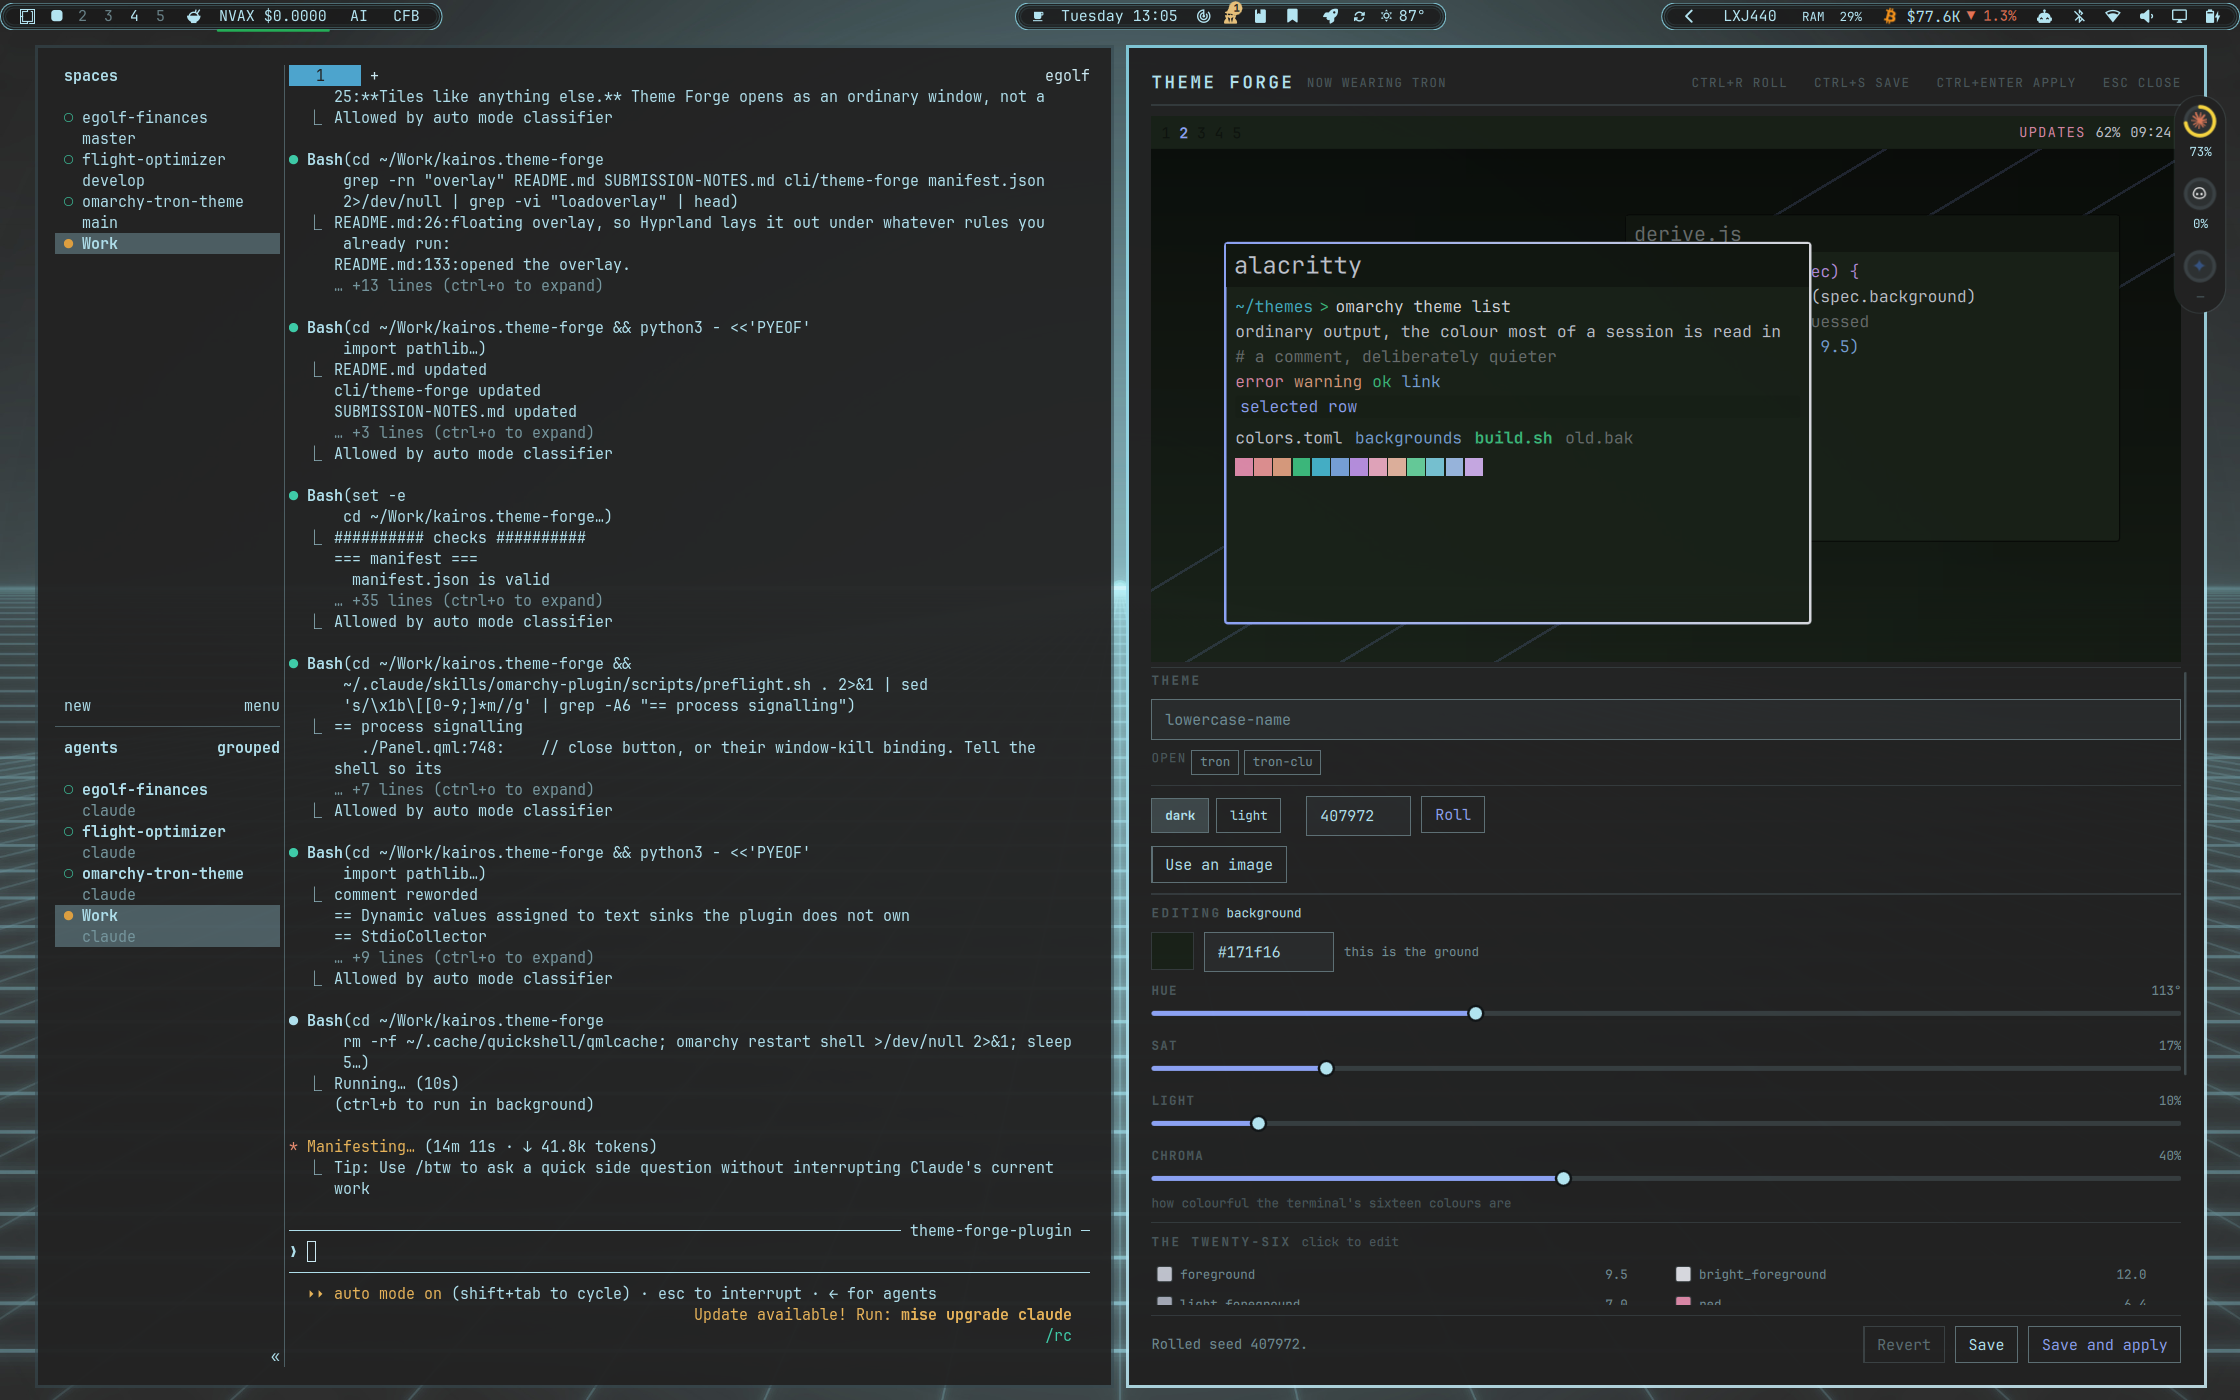
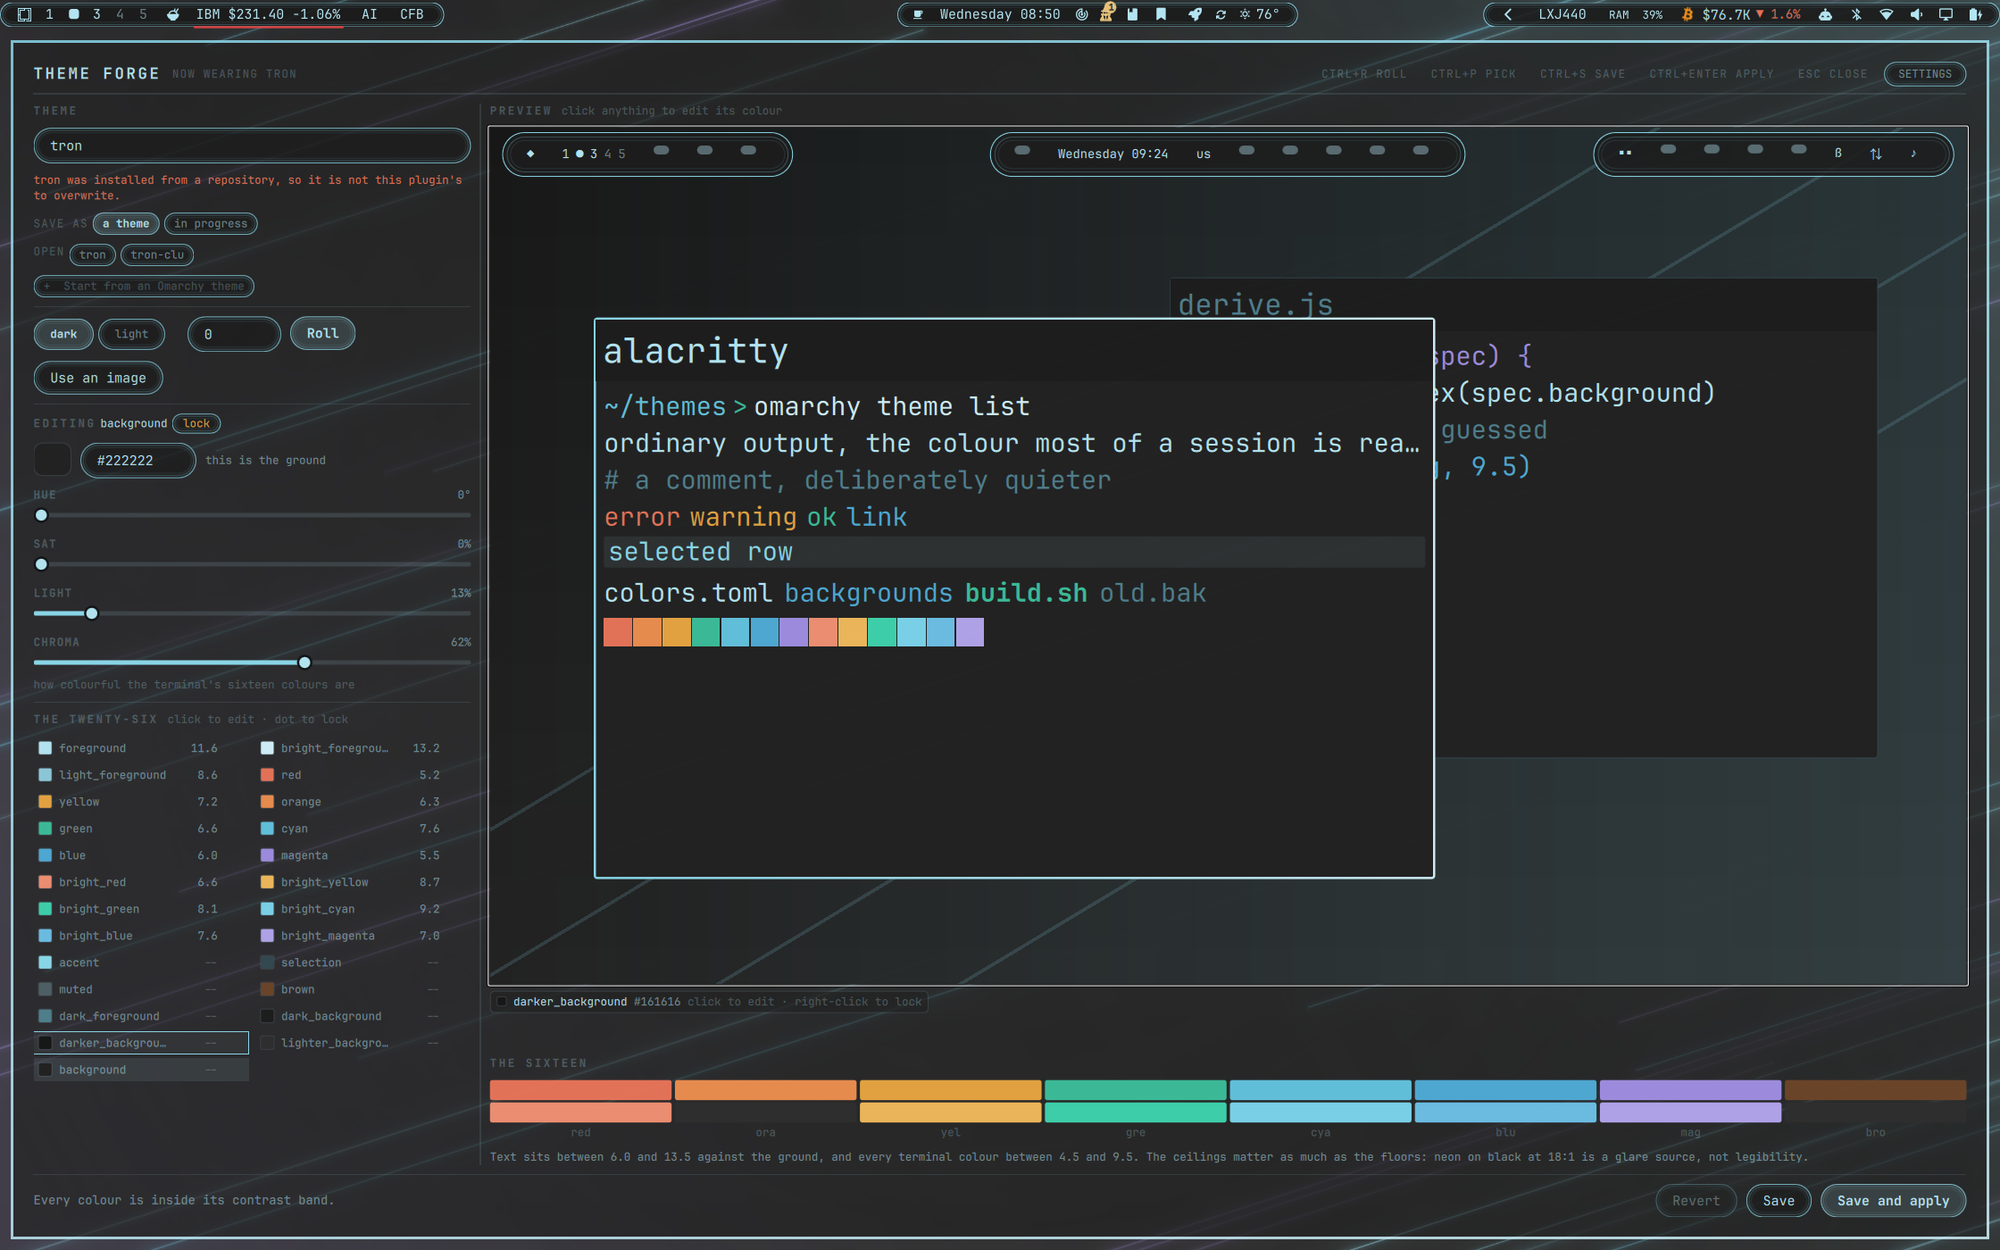
update preview image

diff --git a/README.md b/README.md
@@ -8,7 +8,7 @@ theme. Theme Forge is the missing one: roll a palette, tune any of the
 twenty-six colours by hand, or seed the whole thing from a wallpaper — then save
 a real theme directory and apply it, with one click to put your old theme back.
 
-![Theme Forge tiled beside a terminal](preview.png)
+![Theme Forge with the preview bar mirroring Rice Bar and a hovered token](preview.png)
 
 ---
 
